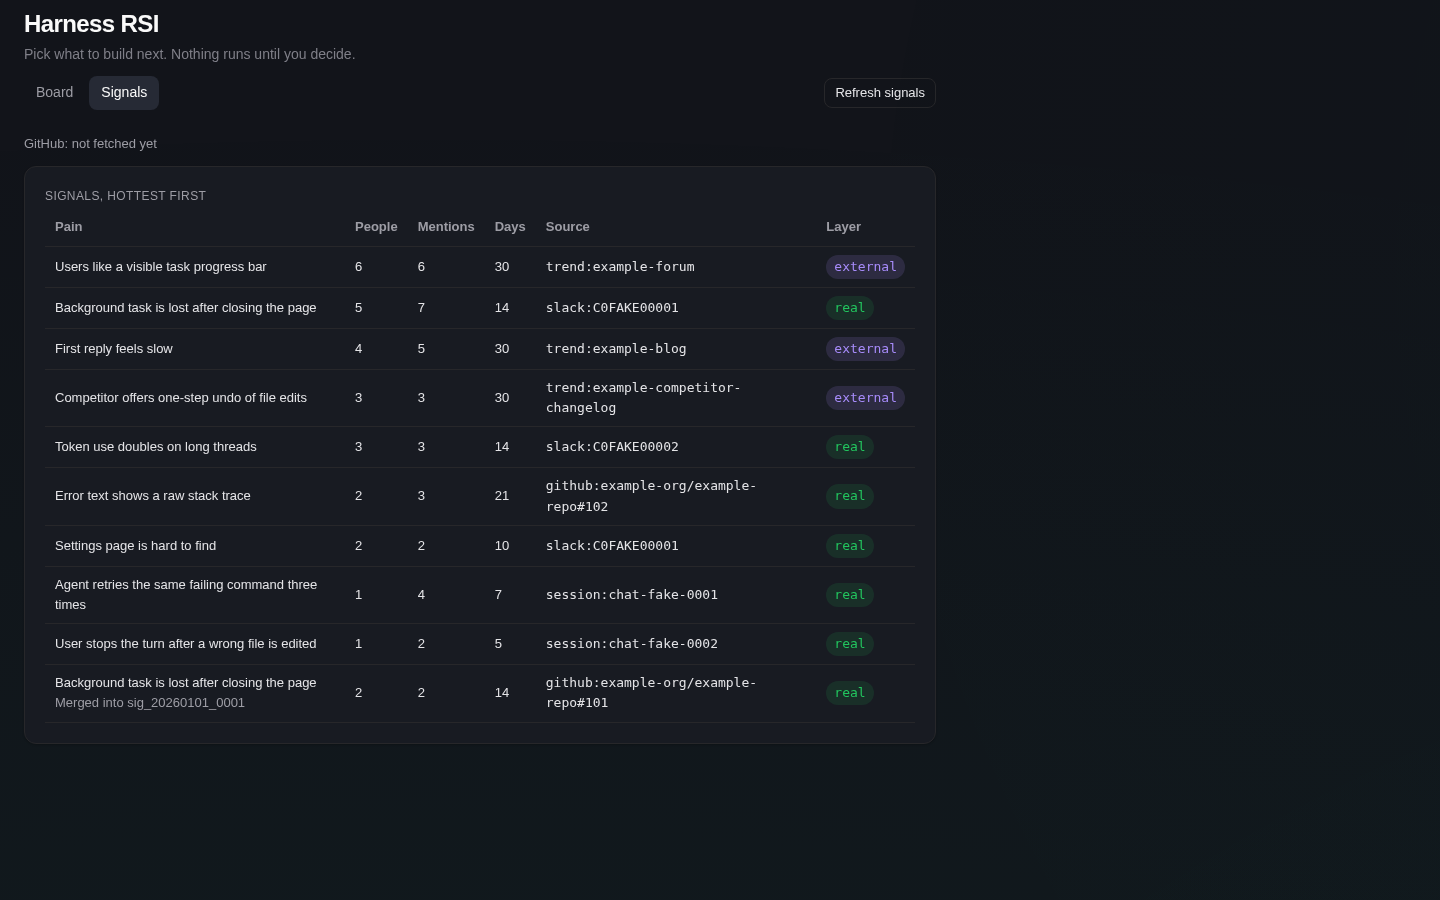
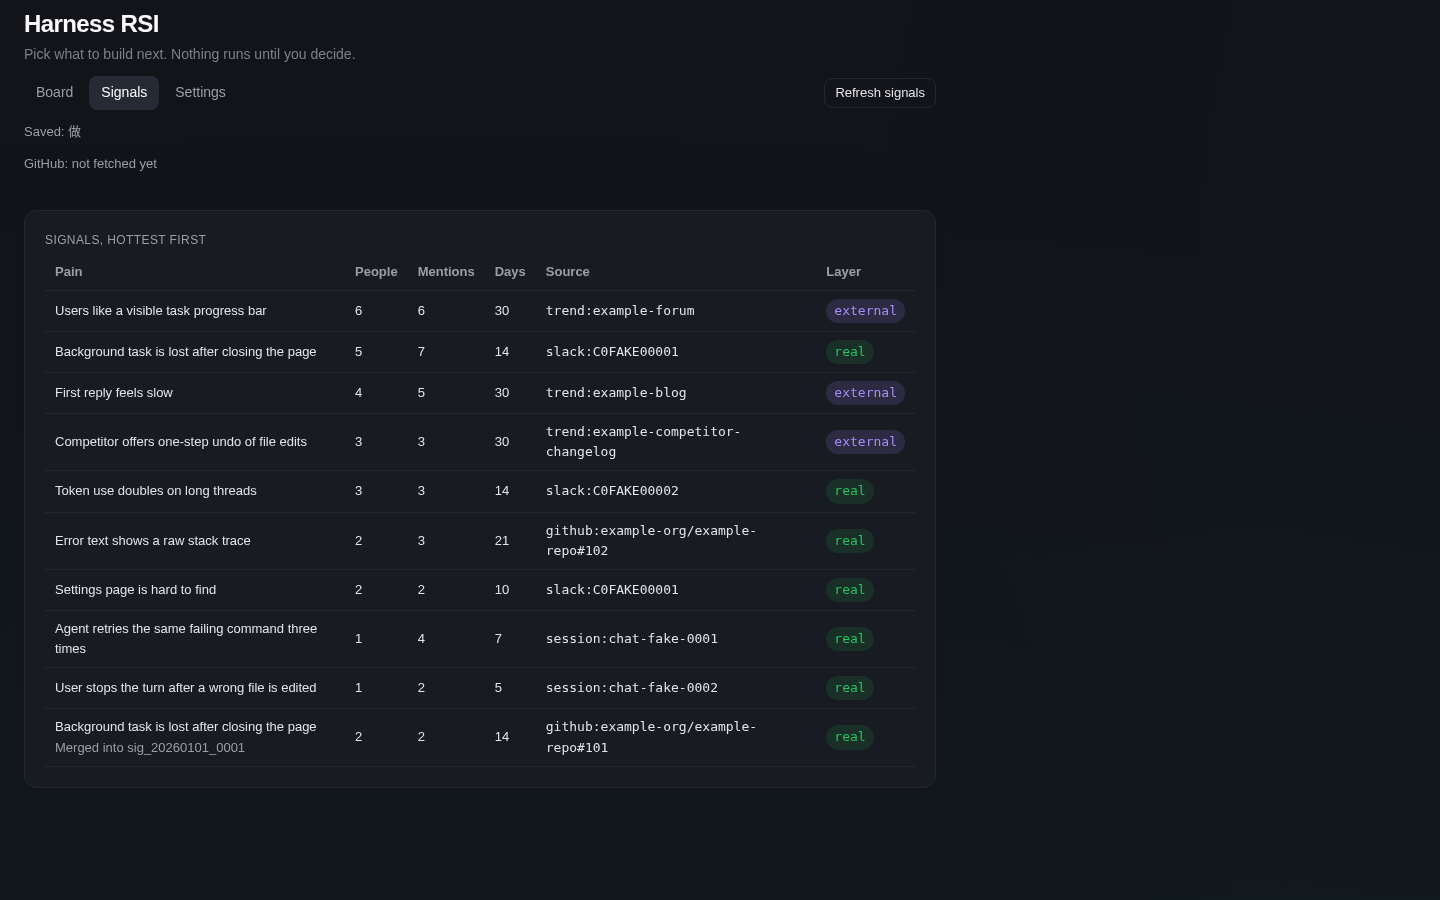
feat(ui): judge scores on each card, link a PR, score on a switch
Each card lists its linked KiroCrew PRs with the judge's base -> head line
and the newest post-merge regress line; the owner can link a PR number from
the card. A Score PRs button starts the single-flight scoring job, and a new
Settings switch (off by default) lets the hourly tick start it.

Backend: GET /outcomes (ledger rows and the job's state), owner-only
POST /outcomes/link and POST /score/run; schedule gains score_enabled.

diff --git a/backend/routes.py b/backend/routes.py
@@ -8,7 +8,10 @@ one-shot job (at most one at a time; it takes minutes) whose rows merge when it 
 Slack settings (``backend.settings``). ``POST /round/run`` runs one design-crew round
 (``backend.round_job``) with these same Slack and GitHub sources; ``GET /round/status``
 reports it. ``/schedule`` and ``/schedule/tick``: the owner's opt-in weekly round and daily
-regress (``backend.schedule``), off by default. No startup hook, no timer in the gateway.
+regress (``backend.schedule``), off by default. ``GET /outcomes`` reads the outcome ledger
+and the scoring job; ``POST /outcomes/link`` links a card to a KiroCrew PR; ``POST /score/run``
+starts ``python -m backend.autoscore`` (single-flight; the tick does when scoring is on).
+No startup hook, no timer in the gateway.
 """
 
 import asyncio
@@ -26,15 +29,18 @@ try:  # the gateway loads the backend as a subpackage of the app's own synthetic
 except ImportError:  # tests and the CLI import ``backend`` as a top-level package
     import adapters.slack
 
-from . import round_job, schedule, settings, store
+from . import ledger, round_job, schedule, settings, store
 
 APP_NAME = "harness-rsi"
 MAX_BODY = 2 * 1024 * 1024
 GITHUB_TIMEOUT_S = 30 * 60
+SCORE_TIMEOUT_S = 6 * 3600
 #: The GitHub job: ``task`` is the running asyncio task, the rest is shown on the board.
 JOB = {"task": None, "running": False, "started_at": None, "finished_at": None, "rows": None, "error": ""}
 CLOCK = lambda: dt.datetime.now().astimezone()  # noqa: E731 - local time; tests pass a fake
 SCHEDULED = set()  # tasks the tick started, held until they end
+#: The scoring job (``backend.autoscore``), shown with ``/outcomes``; ``updated`` lists rows it changed.
+SCORE = {"task": None, "running": False, "started_at": None, "finished_at": None, "updated": None, "error": ""}
 
 
 def _err(status, code, message):
@@ -164,6 +170,61 @@ async def _refresh(request, ctx):
     return web.json_response({"ok": True, "total": total, "added": added, "errors": [note] if note else [], "github": _job_view()})
 
 
+def score_run(kc):
+    """``(updated rows, error)`` from one ``python -m backend.autoscore`` run (exit 3: rate limit)."""
+    try:
+        r = subprocess.run([sys.executable, "-m", "backend.autoscore", "--kirocrew", kc], cwd=store.ROOT,
+                           capture_output=True, text=True, timeout=SCORE_TIMEOUT_S)
+        return (json.loads(r.stdout)["updated"], "") if r.returncode == 0 else (None, f"score: exit {r.returncode}")
+    except (OSError, subprocess.TimeoutExpired, ValueError, KeyError) as exc:
+        return None, f"score: {type(exc).__name__}"
+
+
+async def _score_job(kc):
+    try:
+        SCORE.update(zip(("updated", "error"), await asyncio.to_thread(score_run, kc)))
+    except Exception as exc:  # noqa: BLE001 - the job must always report and release
+        SCORE.update(updated=None, error=f"score: {type(exc).__name__}")
+    finally:
+        SCORE.update(running=False, finished_at=time.time(), task=None)
+
+
+def start_score(kc):
+    """Start the scoring job unless one runs (single-flight); True when started."""
+    if SCORE["running"]:
+        return False
+    SCORE.update(running=True, started_at=time.time(), finished_at=None, updated=None, error="")
+    SCORE["task"] = asyncio.get_running_loop().create_task(_score_job(kc))
+    return True
+
+
+async def _outcomes(request, ctx):
+    score = {k: v for k, v in SCORE.items() if k != "task"}
+    return web.json_response({"ok": True, "outcomes": await asyncio.to_thread(ledger.rows), "score": score})
+
+
+async def _link(request, ctx):
+    if not _owner(request):
+        return _err(403, "owner_only", "only the dashboard owner can link a PR")
+    body = await _body(request) or {}
+    if not (isinstance(n := body.get("pr"), int) and not isinstance(n, bool) and 0 < n < 10**7):
+        return _err(400, "bad_pr", "pr must be a KiroCrew pull request number")
+    if body.get("proposal_id") not in {p["id"] for p in await asyncio.to_thread(store.read_proposals)}:
+        return _err(404, "unknown_proposal", "no such proposal")
+    row = await asyncio.to_thread(ledger.link, body["proposal_id"], f"kirodotdev/KiroCrew#{n}", "board")
+    return web.json_response({"ok": True, "outcome": row})
+
+
+async def _score_post(request, ctx):
+    if not _owner(request):
+        return _err(403, "owner_only", "only the dashboard owner can start scoring")
+    if not (kc := (await asyncio.to_thread(schedule.read))["kirocrew_dir"]):
+        return _err(409, "no_kirocrew", "set the KiroCrew clone on the Settings tab first")
+    if not start_score(kc):
+        return _err(409, "score_running", "scoring is already running")
+    return await _outcomes(request, ctx)
+
+
 def regress_runs():
     """Stored post-merge regression runs, newest first; an unreadable file is left out."""
     runs = []
@@ -221,6 +282,8 @@ async def _schedule_tick(request, ctx):
     start = lambda: None if JOB["running"] else round_job.start(rnd, [lambda: github_rows(), lambda: slack_rows()])  # noqa: E731
     out, jobs = schedule.tick(CLOCK, conf, round_job.STATE["running"] or JOB["running"], start,
                               schedule.run_regress, lambda *note: schedule.push(state, *note))
+    on = conf["score_enabled"] and conf["kirocrew_dir"]
+    out["score"] = "off" if not on else "started" if start_score(conf["kirocrew_dir"]) else "busy"
     for job in jobs:
         task = asyncio.get_running_loop().create_task(job)
         SCHEDULED.add(task)
@@ -246,4 +309,7 @@ def register_routes(ctx):
         AppRoute(method="GET", path="/schedule", handler=_schedule_get),
         AppRoute(method="POST", path="/schedule", handler=_schedule_post),
         AppRoute(method="POST", path="/schedule/tick", handler=_schedule_tick),
+        AppRoute(method="GET", path="/outcomes", handler=_outcomes),
+        AppRoute(method="POST", path="/outcomes/link", handler=_link),
+        AppRoute(method="POST", path="/score/run", handler=_score_post),
     ]

diff --git a/tests/backend/test_outcome_routes.py b/tests/backend/test_outcome_routes.py
@@ -1,0 +1,69 @@
+"""Outcome routes: owner-only link, the ledger read, and the single-flight scoring job."""
+
+import asyncio
+import json
+import pathlib
+import sys
+
+import pytest
+
+ROOT = pathlib.Path(__file__).resolve().parents[2]
+sys.path.insert(0, str(ROOT))
+from backend import routes  # noqa: E402
+
+PROPOSALS = json.loads((ROOT / "fixtures/proposals.json").read_text(encoding="utf-8"))
+
+
+@pytest.fixture
+def env(tmp_path, monkeypatch):
+    monkeypatch.setenv("HARNESS_RSI_DATA", str(tmp_path))
+    (tmp_path / "proposals.json").write_text(json.dumps(PROPOSALS), encoding="utf-8")
+    return tmp_path
+
+
+class Req(dict):
+    def __init__(self, body=None, **flags):
+        super().__init__({"app": "harness-rsi", **flags})
+        self._body, self.content_length = body, 10
+
+    async def json(self):
+        return self._body
+
+
+def call(handler, req):
+    resp = asyncio.run(handler(req, None))
+    return resp.status, json.loads(resp.text)
+
+
+def test_link_route_is_owner_only_and_checked(env):
+    assert call(routes._link, Req({"proposal_id": "prop_bg_tasks", "pr": 5}, internal_auth=True))[0] == 403
+    assert call(routes._link, Req({"proposal_id": "prop_bg_tasks", "pr": "5"}))[0] == 400
+    assert call(routes._link, Req({"proposal_id": "prop_nope", "pr": 5}))[0] == 404
+    status, body = call(routes._link, Req({"proposal_id": "prop_bg_tasks", "pr": 5}))
+    assert status == 200 and body["outcome"]["pr"] == "kirodotdev/KiroCrew#5"
+    assert [r["pr"] for r in call(routes._outcomes, Req())[1]["outcomes"]] == ["kirodotdev/KiroCrew#5"]
+
+
+def test_score_job_is_single_flight(env, monkeypatch):
+    calls = []
+    monkeypatch.setattr(routes, "score_run", lambda kc: (calls.append(kc), ([{"pr": "x"}], ""))[1])
+
+    async def go():
+        assert routes.start_score("/kc") and not routes.start_score("/kc")
+        await routes.SCORE["task"]
+        return json.loads((await routes._outcomes(Req(), None)).text)["score"]
+    view = asyncio.run(go())
+    assert calls == ["/kc"] and view["running"] is False and view["updated"] == [{"pr": "x"}]
+
+
+@pytest.mark.parametrize("conf,want", [({"score_enabled": False, "kirocrew_dir": "/kc"}, "off"),
+                                       ({"score_enabled": True, "kirocrew_dir": ""}, "off"),
+                                       ({"score_enabled": True, "kirocrew_dir": "/kc"}, "started")])
+def test_tick_starts_scoring_only_when_the_owner_turned_it_on(env, monkeypatch, conf, want):
+    from backend import schedule
+    started = []
+    monkeypatch.setattr(schedule, "read", lambda: {**schedule.DEFAULTS, **conf})
+    monkeypatch.setattr(routes, "start_score", lambda kc: started.append(kc) or True)
+    assert schedule.DEFAULTS["score_enabled"] is False  # off until the owner saves it
+    out = call(routes._schedule_tick, Req(internal_auth=True))[1]
+    assert out["score"] == want and started == (["/kc"] if want == "started" else [])

diff --git a/backend/schedule.py b/backend/schedule.py
@@ -3,6 +3,7 @@
 The hourly app cron posts ``/schedule/tick``; :func:`tick` starts what is on and due. Switches
 live in the vault (only the owner-only ``POST /schedule`` writes them); runs in ``schedule-runs.jsonl``.
 Out goes one note per round, one critical note per regression; no Slack post, PR or merge.
+``score_enabled`` lets the tick start the PR scoring job (``backend.autoscore``, via ``routes``).
 """
 
 import asyncio
@@ -16,7 +17,7 @@ from . import settings, store
 
 APP, VAULT_NAME, RUNS, BOARD_URL = "harness-rsi", "harness-rsi.schedule", "schedule-runs.jsonl", "/apps/harness-rsi"
 CHANNELS = {"rounds": "default", "regressions": "critical"}  # as app.json declares them
-DEFAULTS = {"round_enabled": False, "regress_enabled": False, "weekday": 0, "hour": 9, "kirocrew_dir": ""}
+DEFAULTS = {"round_enabled": False, "regress_enabled": False, "score_enabled": False, "weekday": 0, "hour": 9, "kirocrew_dir": ""}
 REGRESS = {"running": False}
 
 

diff --git a/tests/backend/test_backend.py b/tests/backend/test_backend.py
@@ -217,5 +217,6 @@ def test_disabled_app_registers_nothing(tmp_path, monkeypatch):
     assert got == [("GET", "/signals"), ("GET", "/proposals"), ("POST", "/decisions"), ("POST", "/refresh"),
                    ("GET", "/refresh/status"), ("GET", "/settings"), ("POST", "/settings"), ("GET", "/regress"),
                    ("POST", "/round/run"), ("GET", "/round/status"), ("GET", "/schedule"), ("POST", "/schedule"),
-                   ("POST", "/schedule/tick")]
+                   ("POST", "/schedule/tick"), ("GET", "/outcomes"), ("POST", "/outcomes/link"),
+                   ("POST", "/score/run")]
     assert not (tmp_path / "d").exists()

diff --git a/tests/ui/test_ui.py b/tests/ui/test_ui.py
@@ -42,7 +42,7 @@ def test_manifest_is_opt_in_with_no_automatic_actions():
 
 def test_fake_data_is_a_copy_of_the_fixtures():
     lines = (ROOT / "ui" / "fake-data.mjs").read_text(encoding="utf-8").splitlines()
-    for name in ("proposals", "signals"):
+    for name in ("proposals", "signals", "outcomes"):
         line = next(x for x in lines if x.startswith(f"export const {name} = "))
         assert json.loads(line.split(" = ", 1)[1]) == load(f"fixtures/{name}.json")
 

diff --git a/README.md b/README.md
@@ -29,8 +29,8 @@ Keeping the exam store honest (exams stay in `$HARNESS_RSI_DATA/exams`, never in
 
 Closing the loop (outcome ledger):
 
-- `$HARNESS_RSI_DATA/outcomes.jsonl` holds one `schemas/outcome.schema.json` row per card and product PR: the decision, the PR, its merge sha, the judge's base and head runs, the exams promoted on merge and every post-merge regress result for those exams. Rows are appended whole; the newest per `(card_id, pr)` is current.
-- `python -m backend.autoscore --kirocrew KC` reads the 50 newest KiroCrew PRs and every linked one in one GraphQL call (read-only, stops below 200 API points), links a PR whose title or body names a card id, and when a linked PR's head moved runs the card's exams (its `exam_ids` plus exams written for its signals) on the base and on the head in throwaway worktrees. On merge it promotes those exams to regression and runs the regression suite on the merge commit. Fork PRs are linked but never run. Paired metrics come from `$HARNESS_RSI_DATA/metrics/<owner>__<repo>__<n>.json` (`judge.metrics_in` output) when one exists.
+- `$HARNESS_RSI_DATA/outcomes.jsonl` holds one `schemas/outcome.schema.json` row per card and product PR: the decision, the PR, its merge sha, the judge's base and head runs, the exams promoted on merge and every post-merge regress result for those exams. Rows are appended whole; the newest per `(card_id, pr)` is current. `GET /outcomes` reads it and each card shows its PRs' scores; `POST /outcomes/link {proposal_id, pr}` links a card to a KiroCrew PR from the board.
+- `python -m backend.autoscore --kirocrew KC` reads the 50 newest KiroCrew PRs and every linked one in one GraphQL call (read-only, stops below 200 API points), links a PR whose title or body names a card id, and when a linked PR's head moved runs the card's exams (its `exam_ids` plus exams written for its signals) on the base and on the head in throwaway worktrees. On merge it promotes those exams to regression and runs the regression suite on the merge commit. Fork PRs are linked but never run. Paired metrics come from `$HARNESS_RSI_DATA/metrics/<owner>__<repo>__<n>.json` (`judge.metrics_in` output) when one exists. The board's Score PRs button (`POST /score/run`) starts it as a single-flight job, and the hourly tick does when "Score linked KiroCrew PRs" is on in Settings.
 - Back-fill: `python -m backend.autoscore --kirocrew KC --pr N [--card prop_x]` scores one PR now; a PR with no runnable exam or no card says so in `note`.
 
 `fixtures/` holds fake rows for each schema (no real Slack text, names or links). `tests/contract/` validates every fixture, checks cross-references resolve, and asserts known-bad rows are refused. Run `pip install -r requirements.txt && pytest tests/`.
